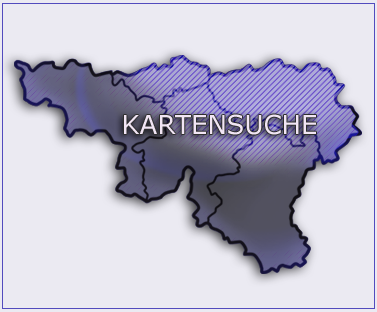
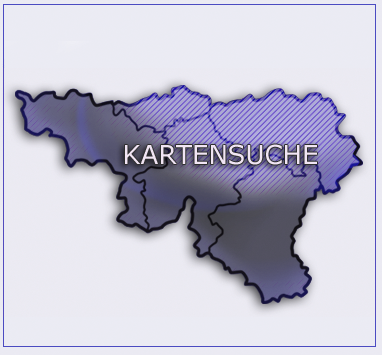
BNB : arrangation du positionnage du moteur de recherche par rapport au graphisme refs #2266

Changed region(s): [[0.0, 0.0, 1.0, 1.0]]

diff --git a/bnbelgium/skin/skins/bnbelgium_styles/bnb.css b/bnbelgium/skin/skins/bnbelgium_styles/bnb.css
@@ -357,6 +357,7 @@ margin-bottom: 15px;
 #moteur-form-cell {
 background-image:url(bck_moteur_recherche.png);
 background-repeat:no-repeat;
+height:365px;
 }
 
 #moteur-form {
@@ -393,8 +394,8 @@ width:16px;
 
 #moteur-ref {
 text-align:left;
-padding-left:20px;
-padding-top:18px;
+padding-left:40px;
+padding-top:15px;
 }
 
 #texte-ref{
